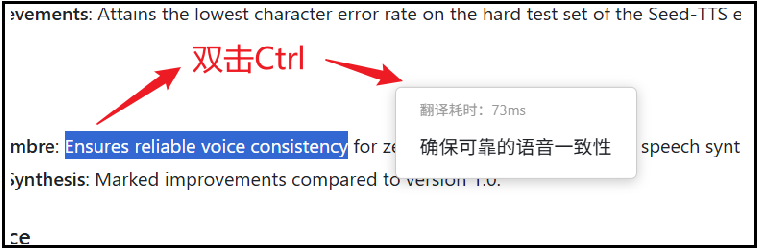
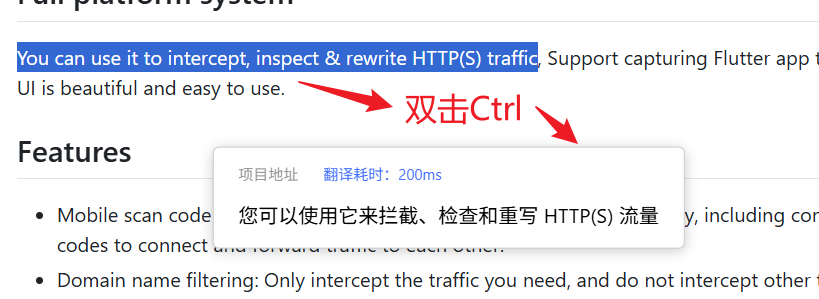
1、兼容暗黑模式 2、支持分段翻译

Changed region(s): [[0.0, 0.0, 1.0, 1.0]]

diff --git a/src/scripts/content.js b/src/scripts/content.js
@@ -1,6 +1,8 @@
 let lastCtrlPressTime = 0;
+let loading = false; // 防止重复
 const DOUBLE_PRESS_DELAY = 300; // 毫秒
 
+// 双击快捷键Ctrl检测
 document.addEventListener("keydown", (event) => {
   if (
     event.key === "Control" ||
@@ -8,28 +10,25 @@ document.addEventListener("keydown", (event) => {
     event.code === "ControlRight"
   ) {
     const currentTime = Date.now();
-
-    // 检查是否是双击
     if (currentTime - lastCtrlPressTime < DOUBLE_PRESS_DELAY) {
-      // 双击Ctrl检测到
       showSelectedText();
-      event.preventDefault(); // 防止默认行为
+      event.preventDefault();
     }
-
     lastCtrlPressTime = currentTime;
   }
 });
 
-// 快捷键触发翻译
+// 触发翻译
 async function showSelectedText() {
-  let selectedText = window.getSelection().toString().trim();
+  if (loading) return;
+  let selectedText = window.getSelection().toString();
   if (selectedText) {
-    // 创建弹窗元素
+    loading = true;
+    // 创建弹窗
     const popup = document.createElement("div");
     popup.style.position = "fixed";
     popup.style.maxWidth = "800px";
-    popup.style.maxHeight = "500px";
-    popup.style.overflowY = "auto";
+    popup.style.overflowY = "hidden";
     popup.style.top = "50%";
     popup.style.left = "50%";
     popup.style.transform = "translate(-50%, -50%)";
@@ -38,62 +37,92 @@ async function showSelectedText() {
     popup.style.padding = "10px 20px 15px";
     popup.style.borderRadius = "5px";
     popup.style.boxShadow = "0 2px 10px rgba(0,0,0,0.2)";
+    popup.style.textAlign = "left";
     popup.style.zIndex = "999999";
-
-    // 检测翻译前语言
-    const detector = await LanguageDetector.create();
-    const results = await detector.detect(selectedText);
-    const detectedLanguage = results.length
-      ? results[0].detectedLanguage
-      : "en";
-
-    let result = "";
-    const startTime = Date.now(); // 计算翻译耗时
-    const translator = await Translator.create({
-      sourceLanguage: detectedLanguage,
-      targetLanguage: detectedLanguage === "zh" ? "en" : "zh",
-    });
-    const stream = translator.translateStreaming(selectedText);
-    for await (const chunk of stream) {
-      result += chunk;
-    }
-    selectedText = result;
-
-    // 添加翻译耗时弹窗
-    const timeConsumed = Date.now() - startTime;
-    const timeConsumedElement = document.createElement("a");
-    timeConsumedElement.style.color = "#999";
-    timeConsumedElement.style.fontSize = "12px";
-    timeConsumedElement.style.textDecoration = "none";
-    timeConsumedElement.style.marginBottom = "10px";
-    timeConsumedElement.style.marginRight = "20px";
-    timeConsumedElement.textContent = `翻译耗时：${timeConsumed}ms`;
-    popup.appendChild(timeConsumedElement);
+    document.body.appendChild(popup);
 
     // 添加项目地址
     const linkElement = document.createElement("a");
     linkElement.href = "https://github.com/laoxiu001/chorme-translator-crx";
     linkElement.target = "_blank";
-    linkElement.textContent = "项目地址";
-    // linkElement.style.color = "#007bff";
+    linkElement.innerHTML = "项目地址";
+    linkElement.style.marginRight = "20px";
+    linkElement.style.fontSize = "12px";
+    linkElement.style.lineHeight = "20px";
+    linkElement.style.color = "#999";
     linkElement.style.textDecoration = "none";
-    linkElement.style.marginBottom = "12px";
     popup.appendChild(linkElement);
 
-    // 添加翻译结果
+    // 添加翻译耗时弹窗
+    const timeConsumedElement = document.createElement("a");
+    timeConsumedElement.style.color = "#4571fb";
+    timeConsumedElement.style.fontSize = "12px";
+    timeConsumedElement.style.lineHeight = "20px";
+    timeConsumedElement.style.textDecoration = "none";
+    timeConsumedElement.style.marginBottom = "10px";
+    popup.appendChild(timeConsumedElement);
+
+    // 创建翻译div
     const textElement = document.createElement("div");
-    textElement.textContent = selectedText;
+    textElement.style.marginTop = "10px";
+    textElement.style.color = "#000"; // 兼容暗黑模式
+    textElement.style.maxHeight = "500px";
+    textElement.style.overflowY = "auto";
     textElement.style.fontSize = "16px";
     textElement.style.whiteSpace = "pre-wrap";
+    textElement.innerHTML = "翻译中...";
     popup.appendChild(textElement);
 
+    // 检测翻译前语言
+    let detectedLanguage = "";
+    try {
+      const detector = await LanguageDetector.create();
+      const results = await detector.detect(selectedText);
+      detectedLanguage = results.length ? results[0].detectedLanguage : "en";
+    } catch (error) {
+      loading = false;
+    }
+
+    const startTime = Date.now(); // 计算翻译耗时
+    const translator = await Translator.create({
+      sourceLanguage: detectedLanguage,
+      targetLanguage: detectedLanguage === "zh" ? "en" : "zh",
+    });
+
+    let abortController = new AbortController(); // 用于存储AbortController实例
+    // 开始翻译
+    try {
+      for await (const text of selectedText.split("\n")) {
+        if (textElement.innerHTML === "翻译中...") textElement.innerHTML = "";
+        const stream = translator.translateStreaming(text, {
+          signal: abortController.signal,
+        });
+        for await (const chunk of stream) {
+          textElement.innerHTML += chunk;
+          // console.log("chunk", chunk);
+        }
+        textElement.innerHTML += "\n";
+      }
+    } catch (error) {
+      loading = false;
+    }
+
     // 点击空白区域关闭弹框
-    document.addEventListener("click", (event) => {
-      if (event.target !== popup && event.target !== textElement && event.target !== timeConsumedElement) {
-        document.body.removeChild(popup);
+    const clickHandler = document.addEventListener("click", (event) => {
+      if (
+        event.target !== popup &&
+        event.target !== textElement &&
+        event.target !== timeConsumedElement
+      ) {
+        loading = false;
+        abortController.abort();
+        if (document.body.contains(popup)) document.body.removeChild(popup);
+        document.removeEventListener("click", clickHandler); // 卸载监听
       }
     });
 
-    document.body.appendChild(popup);
+    const timeConsumed = Date.now() - startTime;
+    timeConsumedElement.innerHTML = `翻译耗时：${timeConsumed}ms`;
+    loading = false;
   }
 }

diff --git a/src/index.html b/src/index.html
@@ -9,6 +9,10 @@
   </head>
   <body class="w-[500px] p-[20px]">
     <h1 class="text-xl font-bold text-center">Google AI Translator</h1>
+    <!-- <select name="lang" id="lang_select">
+      <option value="zh">中文</option>
+      <option value="en">英文</option>
+    </select> -->
     <div class="my-[20px]">
       <textarea
         id="inputOrigin"

diff --git a/README.md b/README.md
@@ -1,6 +1,8 @@
 # chrome-translator
 使用 Chrome 扩展的方式实现的翻译工具
 
+------
+
 
 
 ### 安装
@@ -18,6 +20,8 @@
 ![alt text](images/screenshots/package.png)
 
 5、重启Chorme浏览器
+
+------
 
 
 
@@ -40,6 +44,8 @@
 3、也可自行输入文本，然后点击“翻译文本”
 ```
 
+------
+
 
 
 ### 注意
@@ -49,3 +55,35 @@
   下载完成之后再次运行翻译功能即可
 
 - 本功能基于谷歌浏览器自带AI模型，请将浏览器更新至**最新**版使用
+
+------
+
+
+
+### 已完成
+
+- [x] 分段落流式翻译
+- [x] 兼容暗黑模式
+- [x] 翻译内容过多，导致内存泄漏
+- [x] 自动识别待翻译语言
+
+
+
+### 待完成
+
+- [ ] 翻译结果弹框拖拽
+- [ ] 自定义默认翻译语言
+
+
+
+### 更新日志
+
+- **2025-08-18：**
+
+  分段流式翻译，根据换行拆分翻译，大大加快实时翻译速度
+
+  兼容暗黑模式
+
+  关闭弹窗，中止翻译防止内存泄漏
+
+- **2025-08-16：**框架初始化
